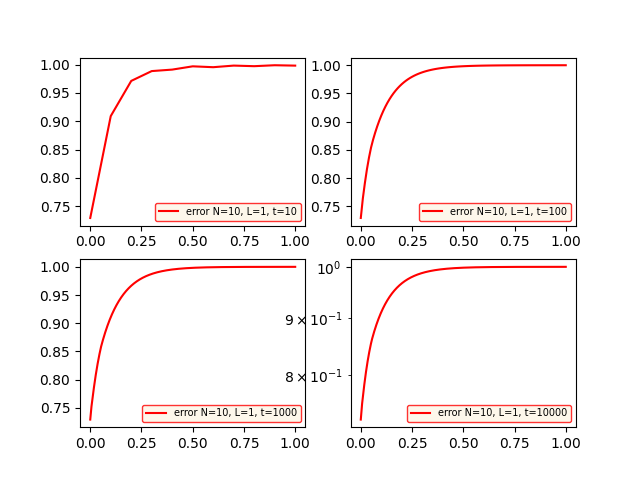
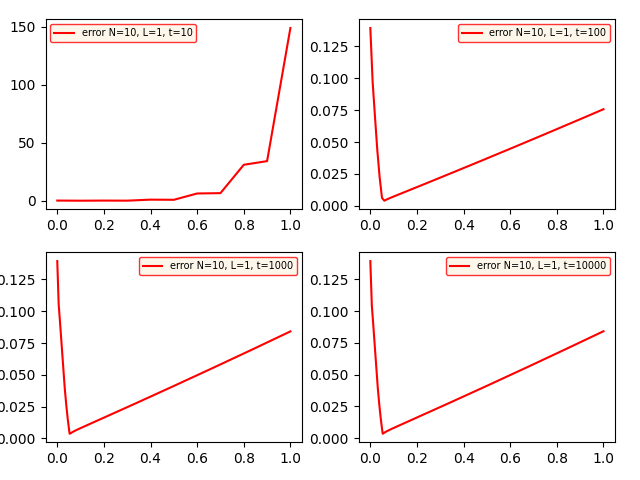
Fixed analytic solution computation

diff --git a/task10/task10.py b/task10/task10.py
@@ -10,7 +10,6 @@ u(x, 0)=x*(1 - x/L)^2
 как зависит от шага
 влияние L на сходимость, корректность метода
 """
-
 import matplotlib.pyplot as plt
 import numpy as np
 from typing import NamedTuple
@@ -69,16 +68,19 @@ def triagonal(d: list, tau: float, h: float, N: int) -> list:
 
     y.insert(0, 0)  # u(0, t) = 0
     y.append(0)  # u(L, t) = 0
-
     return y
 
 
 def solution(t: float, x: float, L: float):
-    K = 400
+    """
+    $$u(x,t) = \sum \frac{4L(2\pi k + \pi k(-1)^k)}{\pi ^4 k^4}exp(-\mu _{k}^2 t) sin(\mu _{k} x)$$
+    $$\mu _{k} = \frac{k\pi}{L}$$
+    """
+    K = 1000
     res = []
     for k in (1, K):
         mu = (k * np.pi)/ L
-        c_k = 4 * L * (2*np.pi*k + np.pi * k * np.cos(np.pi * k))
+        c_k = 4 * L * (2*np.pi*k + np.pi * k * np.cos(np.pi * k)) / (np.pi * k)**4
         exp = np.exp((-1) * mu**2 * t)
         sin = np.sin(mu * x)
         res.append(c_k * exp * sin)
@@ -89,8 +91,8 @@ def solution(t: float, x: float, L: float):
 def run() -> None:
 
     N = 10
-    L = 3
-    T = 7
+    L = 30
+    T = 1
     x0, xn = 0, L
     t0, tn = 0, T
 
@@ -129,5 +131,5 @@ def run() -> None:
 
     # plt.plot(time, error, color='red', label=f'error N={N}, L={L}, T={T}')
     # plt.legend(fontsize=7, ncol=1, facecolor='oldlace', edgecolor='r')
-    plt.savefig('task10/task10_L_3_errror.png')
+    plt.savefig(f'task10/task10_L_{L}_errror.png')
     plt.close()

diff --git a/main.py b/main.py
@@ -1,13 +1,7 @@
-from task1 import task1
-from task2 import task2
-from task3 import task3
-from task4 import task4
-from task5 import task5
-from task6 import task6
-from task7 import task7
-from task8 import task8
 from task9 import task9
 from task10 import task10
+from task11 import task11
+from task12 import task12
 
 if __name__ == '__main__':
 
